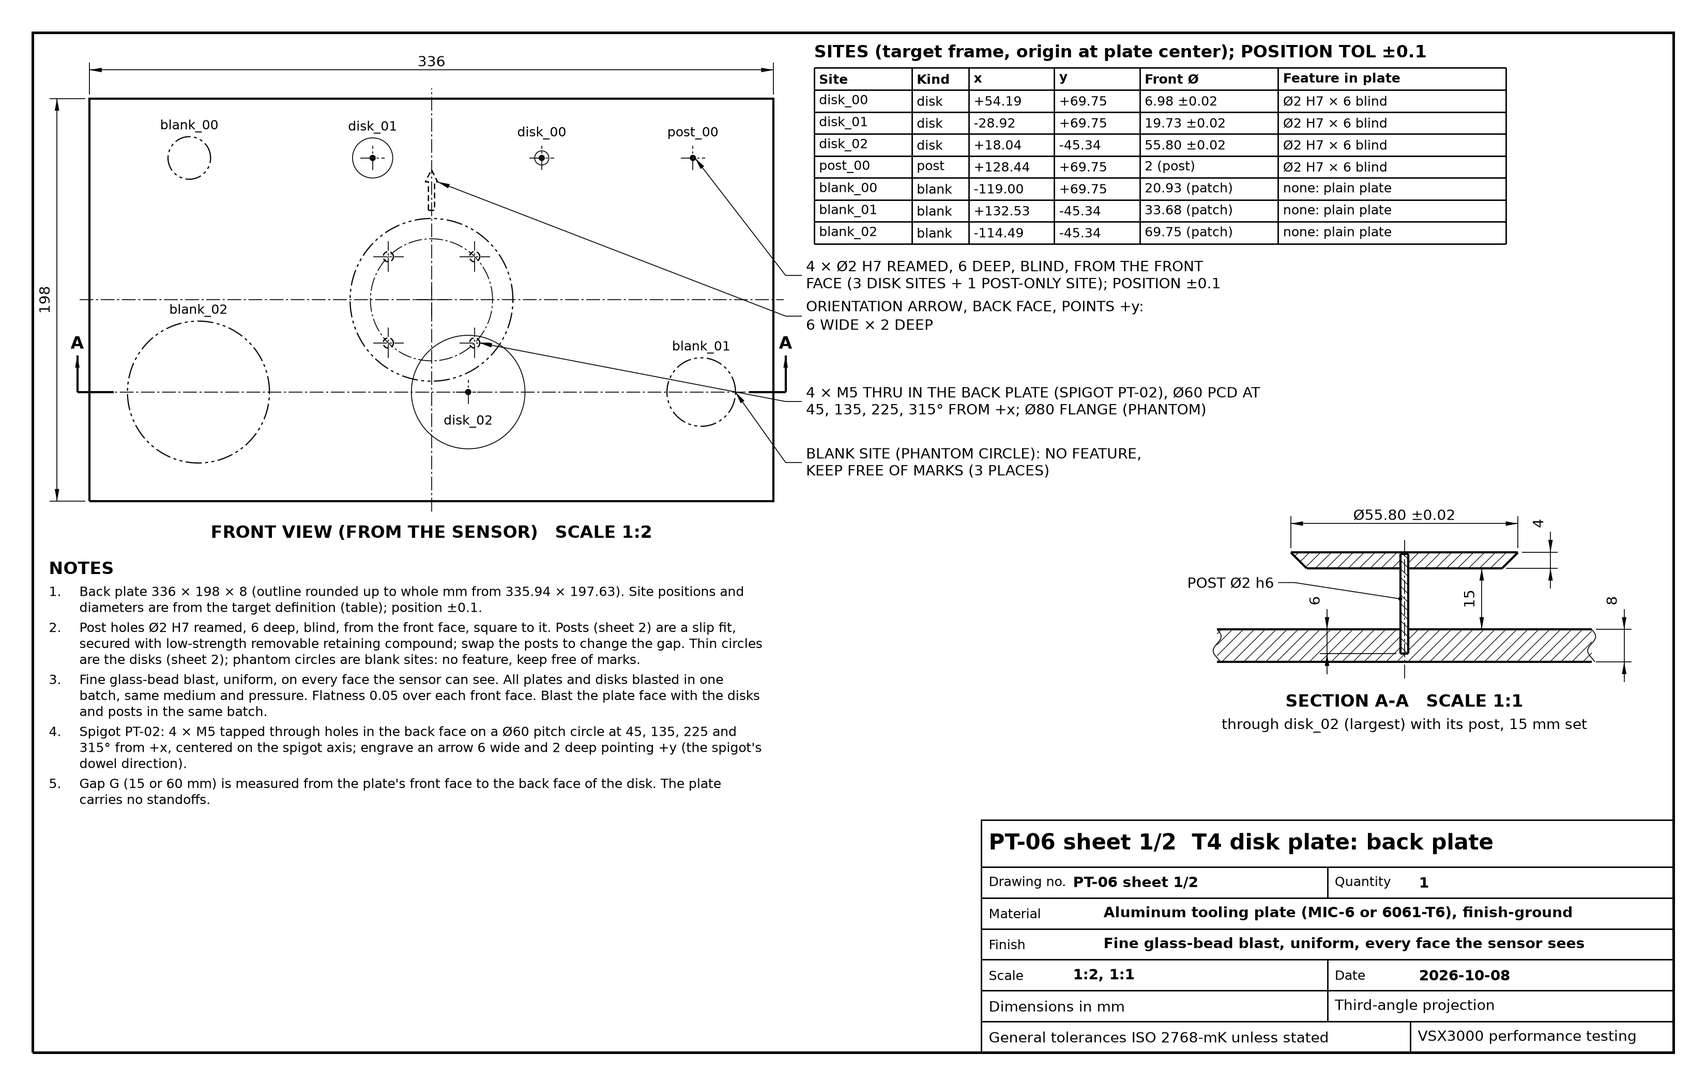
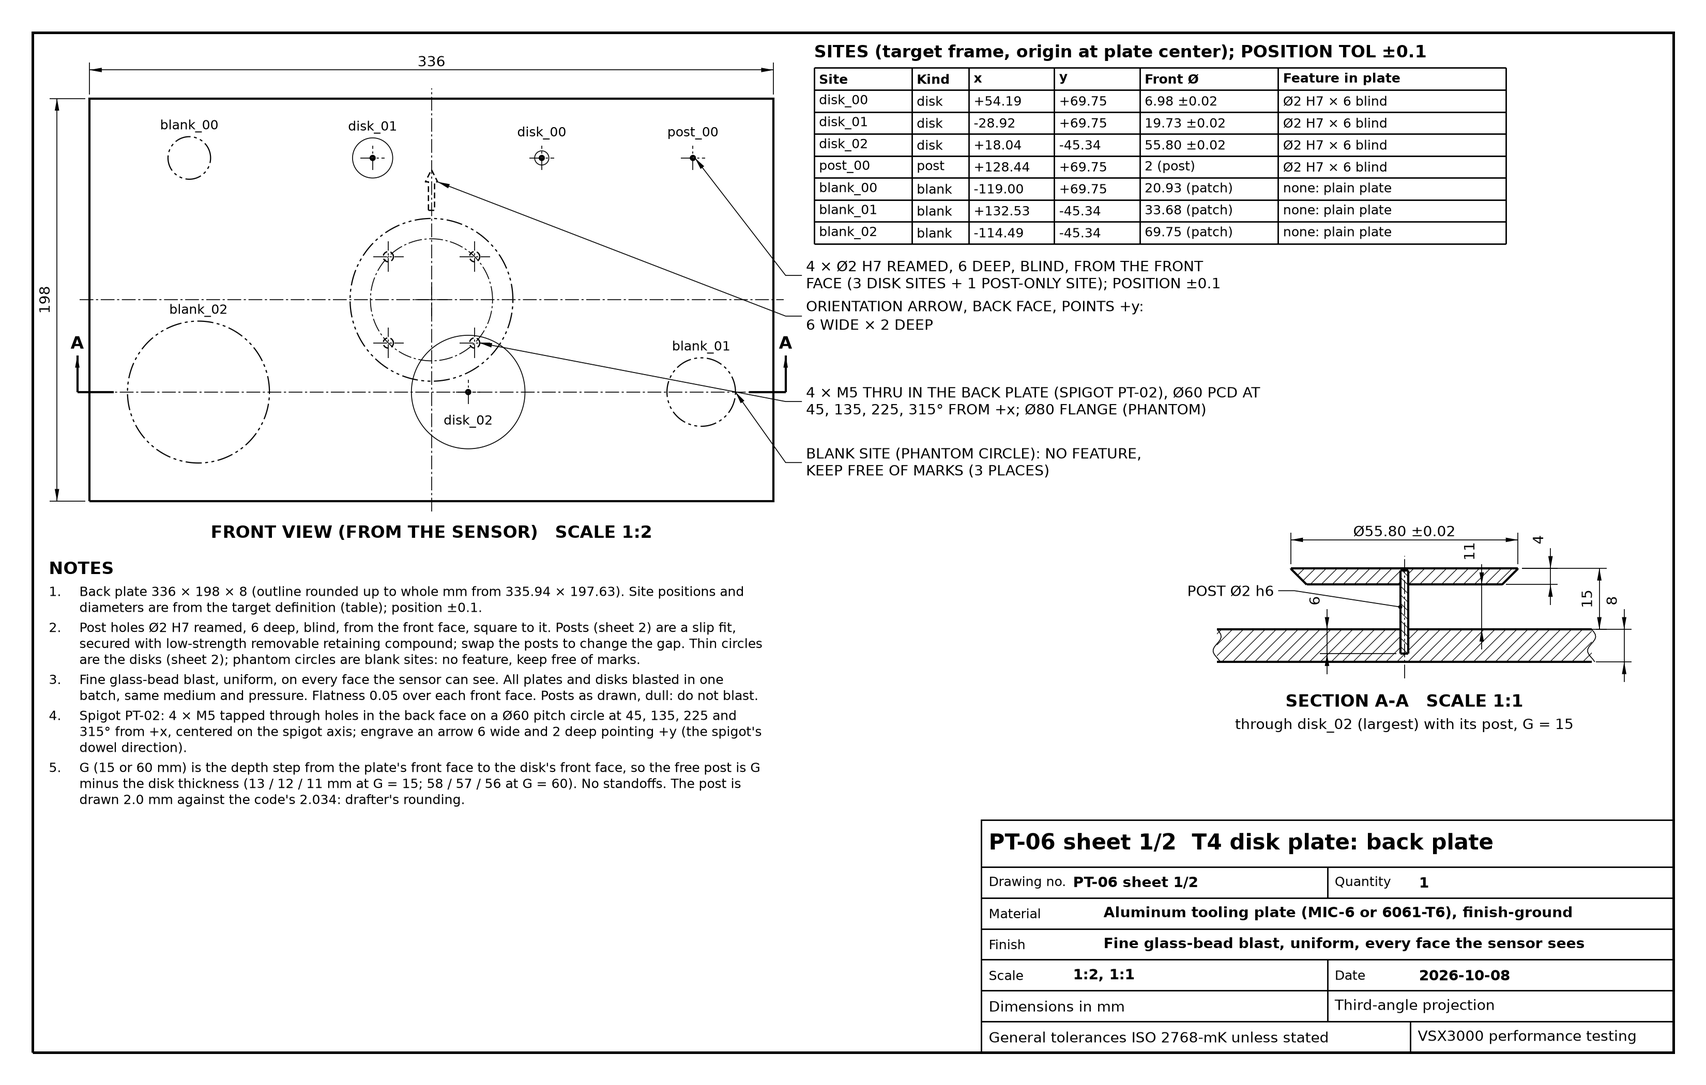
Shop drawings PT-01 to PT-07 released; Appendix F (shop drawings) in the procedure; gap convention G face to face
Drawings regenerated by docs/procedures/drawings/make_all.py: adapter, spigot, standoff set
(bodies G minus the front part's thickness), T3a, T3b, T4 (two sheets), T5 with its edge bracket;
site positions read from the code's target definitions. Appendix F lists the sheets, the points
for the shop to confirm and embeds each drawing. Gate passes (baseline 2026-10-08_07).

Claude-Session: https://claude.ai/code/session_01ERsPi9xhFu3U1nLCkBXPjN

Changed region(s): [[0.0312, 0.619, 0.437, 0.7429], [0.6867, 0.4643, 0.9052, 0.5571], [0.7179, 0.65, 0.9052, 0.681]]

diff --git a/docs/procedures/drawings/part_06_t4_disk_plate.py b/docs/procedures/drawings/part_06_t4_disk_plate.py
@@ -64,12 +64,18 @@ def disk_geometry(f) -> dict[str, float]:
     assert back_d > POST_DIAMETER_MM + 1.0, f"back face of {f.site_id} too small for the post"
     bore = t - DISK_BORE_FLOOR_MM
     return {"t": t, "run": run, "back_d": back_d, "bore": bore,
-            **{f"post_{g:g}": g + POST_HOLE_DEPTH_MM + bore for g in GAPS}}
+            **{f"free_{g:g}": g - t for g in GAPS},  # free post length: plate front face to the disk's back face
+            **{f"post_{g:g}": g - t + POST_HOLE_DEPTH_MM + bore for g in GAPS}}
+
+
+def post_only_free(gap: float) -> float:
+    """Free length of the post-only post: gap minus the SMALL disk's thickness (the longest free post of the plate)."""
+    return gap - DISK_THICKNESS_MM["small"]
 
 
 def post_only_length(gap: float) -> float:
-    """Post-only post: from the hole bottom to the plane of a disk's back face (gap + hole depth)."""
-    return gap + POST_HOLE_DEPTH_MM
+    """Post-only post: free length plus the seat in the plate; its tip lies where the small disk's back face would be."""
+    return post_only_free(gap) + POST_HOLE_DEPTH_MM
 
 
 # ---------------------------------------------------------------------------
@@ -113,6 +119,11 @@ def site_rows() -> list[list[str]]:
             feat = "none: plain plate"
         rows.append([f.site_id, f.kind, f"{f.x_mm:+.2f}", f"{f.y_mm:+.2f}", dia, feat])
     return rows
+
+
+def free_text(gap: float) -> str:
+    """Free post lengths of the small / medium / large disk at ``gap`` as text, e.g. '13 / 12 / 11'."""
+    return " / ".join(c.fmt(gap - DISK_THICKNESS_MM[n]) for n in LEVEL_NAMES)
 
 
 def build_sheet1(out_dir: str) -> list[str]:
@@ -173,9 +184,9 @@ def build_sheet1(out_dir: str) -> list[str]:
 
     # ---- section A-A through the largest disk (cropped) ----
     sec = View(sh, (SEC_ORIGIN_X, SEC_ORIGIN_Y), SEC_SCALE)
-    g = SHOWN_GAP_MM
     G = disk_geometry(LARGEST)
     t, R, run = G["t"], LARGEST.diameter_mm / 2, G["run"]
+    g = SHOWN_GAP_MM - t  # free post length: plate front face to the disk's back face (G minus the disk thickness)
     u_l, u_r = -SEC_HALF, SEC_HALF  # relative to the disk axis (section u = x - disk x)
     hole_r = POST_DIAMETER_MM / 2
     # plate with the blind hole in its front face
@@ -196,13 +207,14 @@ def build_sheet1(out_dir: str) -> list[str]:
     sec.dim_h(-R, R, top, top, 7.0, f"Ø{c.fmt2(LARGEST.diameter_mm)} ±{c.fmt(DISK_DIAMETER_TOL_MM)}")
     sec.dim_v(R, R - run, top, g, 8.0, c.fmt(t))
     sec.dim_v(hole_r, hole_r, 0.0, g, 18.0, c.fmt(g))
+    sec.dim_v(R, R, 0.0, top, 20.0, c.fmt(SHOWN_GAP_MM), base_u=R)  # G: plate front face to the disk's front face
     sec.dim_v(u_r, u_r, 0.0, -PLATE_T, 8.0, c.fmt(PLATE_T))
     sec.dim_v(-hole_r, -hole_r, -POST_HOLE_DEPTH_MM, 0.0, -18.0, c.fmt(POST_HOLE_DEPTH_MM))
     sec.leader((-hole_r, g / 2), f"POST \u00d8{c.fmt(POST_DIAMETER_MM)} {POST_ROD_TOL}", -26.0, 4.0, terminator="dot")
     sh.text(SEC_ORIGIN_X, SEC_ORIGIN_Y - PLATE_T * SEC_SCALE - 11.0,
             "SECTION A-A   SCALE 1:1", size=d.FONT_LABEL, ha="center", weight="bold")
     sh.text(SEC_ORIGIN_X, SEC_ORIGIN_Y - PLATE_T * SEC_SCALE - 16.5,
-            f"through disk_02 (largest) with its post, {c.fmt(g)} mm set", size=d.FONT_NOTE, ha="center")
+            f"through disk_02 (largest) with its post, G = {c.fmt(SHOWN_GAP_MM)}", size=d.FONT_NOTE, ha="center")
 
     notes = [
         f"Back plate {c.fmt(PLATE_W)} × {c.fmt(PLATE_H)} × {c.fmt(PLATE_T)} (outline rounded up to whole mm from "
@@ -212,10 +224,11 @@ def build_sheet1(out_dir: str) -> list[str]:
         f"front face, square to it. Posts (sheet 2) are a slip fit, secured with low-strength removable retaining compound; "
         f"swap the posts to change the gap. Thin circles are the disks (sheet 2); phantom circles are blank sites: no "
         f"feature, keep free of marks.",
-        c.NOTE_FINISH + " " + c.NOTE_FLATNESS + " Blast the plate face with the disks and posts in the same batch.",
+        c.NOTE_FINISH + " " + c.NOTE_FLATNESS + " Posts as drawn, dull: do not blast.",
         c.NOTE_SPIGOT,
-        f"Gap G ({c.fmt(GAP_SMALL_MM)} or {c.fmt(GAP_LARGE_MM)} mm) is measured from the plate's front face to the back "
-        f"face of the disk. The plate carries no standoffs.",
+        f"G ({c.fmt(GAP_SMALL_MM)} or {c.fmt(GAP_LARGE_MM)} mm) is the depth step from the plate's front face to the disk's front face, so "
+        f"the free post is G minus the disk thickness ({free_text(GAP_SMALL_MM)} mm at G = {c.fmt(GAP_SMALL_MM)}; {free_text(GAP_LARGE_MM)} at "
+        f"G = {c.fmt(GAP_LARGE_MM)}). No standoffs. The post is drawn 2.0 mm against the code's {POSTS[0].diameter_mm:.3f}: drafter's rounding.",
     ]
     bottom = sh.notes_block(NOTES_X, NOTES_TOP, NOTES_W, notes, size=c.NOTE_SIZE)
     assert bottom > d.FRAME_BOTTOM, f"notes overflow the sheet (bottom {bottom:.1f})"
@@ -245,14 +258,15 @@ MEDIUM_DISK_R_MM = 12.0  # disks smaller than this take their back diameter text
 SMALL_DISK_R_MM = 5.0  # disks smaller than this take their diameter text outside the dimension
 S2_BORE_LEADER_DROP = 18.0  # the bore leader's elbow lies this far below the disk's back face (paper)
 S2_SMALL_SIDE_DIM = 36.0  # offset of the gap and seat dimension lines of the small disk (paper)
+S2_G_DIM_STEP = 11.0  # the G dimension line lies this far outside the free-length line (paper)
 S2_DIM_ROW = 8.0  # offset of dimension lines from the feature (paper)
 
 
 def draw_assembly(sh: Sheet, f, cx: float) -> None:
     """Section of one disk with its post (15 mm set), the plate front face and the post hole in phantom."""
     G = disk_geometry(f)
-    g = SHOWN_GAP_MM
     t, R, run, bore = G["t"], f.diameter_mm / 2, G["run"], G["bore"]
+    g = SHOWN_GAP_MM - t  # free post length: plate front face to the disk's back face
     rp = POST_DIAMETER_MM / 2
     v = View(sh, (cx, S2_Z0_Y), S2_SCALE)
     top = g + t
@@ -276,6 +290,7 @@ def draw_assembly(sh: Sheet, f, cx: float) -> None:
     side_off = S2_SMALL_SIDE_DIM if small else S2_DIM_ROW + 2.0  # the small disk's diameter text sits left of this line
     v.dim_v(rp, rp, 0.0, g, side_off, c.fmt(g), base_u=R - run + 1.0)
     v.dim_v(rp, rp, -POST_HOLE_DEPTH_MM, 0.0, side_off, c.fmt(POST_HOLE_DEPTH_MM), base_u=R - run + 1.0)
+    v.dim_v(rp, rp, 0.0, top, side_off + S2_G_DIM_STEP, c.fmt(SHOWN_GAP_MM), base_u=R - run + 1.0)  # G
     v.leader((-rp, g + bore / 2), f"BORE \u00d8{c.fmt(POST_DIAMETER_MM)} {POST_HOLE_TOL}\n\u00d7 {c.fmt(bore)} DEEP", -20.0,
              -(S2_BORE_LEADER_DROP + bore), terminator="dot")
     low = S2_Z0_Y - POST_HOLE_DEPTH_MM * S2_SCALE
@@ -287,7 +302,7 @@ def draw_assembly(sh: Sheet, f, cx: float) -> None:
 
 def draw_post_only(sh: Sheet) -> None:
     """The post-only post in place, G = 15 (the 60 mm post is the same part, longer)."""
-    g = SHOWN_GAP_MM
+    g = post_only_free(SHOWN_GAP_MM)  # free length: tip at the plane of the small disk's back face
     rp = POST_DIAMETER_MM / 2
     v = View(sh, S2_POST_ONLY, S2_SCALE)
     half = 8.0
@@ -298,28 +313,29 @@ def draw_post_only(sh: Sheet) -> None:
     v.center_v(-POST_HOLE_DEPTH_MM - 3.0, g + 3.0, 0.0)
     v.dim_v(rp, rp, 0.0, g, 8.0, c.fmt(g), base_u=rp)
     v.dim_v(rp, rp, -POST_HOLE_DEPTH_MM, 0.0, 8.0, c.fmt(POST_HOLE_DEPTH_MM), base_u=rp)
-    L = post_only_length(g)
+    L = g + POST_HOLE_DEPTH_MM  # post-only length: free length + seat
     v.dim_v(rp, rp, -POST_HOLE_DEPTH_MM, g, 18.0, f"L = {c.fmt(L)}", base_u=rp)
     x0 = S2_POST_ONLY[0] + 24.0
     y0 = S2_POST_ONLY[1] + g * S2_SCALE
     sh.text(x0, y0 - 1.0, f"POST-ONLY POST (site {POSTS[0].site_id})", size=d.FONT_NOTE, weight="bold")
     sh.text(x0, y0 - 5.8, f"\u00d8{c.fmt(POST_DIAMETER_MM)} {POST_ROD_TOL} stainless drill rod", size=d.FONT_NOTE)
-    sh.text(x0, y0 - 10.6, f"L = G + {c.fmt(POST_HOLE_DEPTH_MM)}: {c.fmt(post_only_length(GAP_SMALL_MM))} (G {c.fmt(GAP_SMALL_MM)}),",
+    sh.text(x0, y0 - 10.6, f"free = G \u2212 {c.fmt(DISK_THICKNESS_MM['small'])}: {c.fmt(post_only_free(GAP_SMALL_MM))} / {c.fmt(post_only_free(GAP_LARGE_MM))}",
             size=d.FONT_NOTE)
-    sh.text(x0, y0 - 15.4, f"{c.fmt(post_only_length(GAP_LARGE_MM))} (G {c.fmt(GAP_LARGE_MM)}), same part", size=d.FONT_NOTE)
+    sh.text(x0, y0 - 15.4, f"L = {c.fmt(post_only_length(GAP_SMALL_MM))} (G {c.fmt(GAP_SMALL_MM)}), {c.fmt(post_only_length(GAP_LARGE_MM))} (G {c.fmt(GAP_LARGE_MM)})", size=d.FONT_NOTE)
     sh.text(S2_POST_ONLY[0], S2_POST_ONLY[1] - POST_HOLE_DEPTH_MM * S2_SCALE - S2_LABEL_DY,
             "POST-ONLY SITE, 15 mm SET   SCALE 2:1", size=d.FONT_LABEL, ha="center", weight="bold")
 
 
 def parts_rows() -> list[list[str]]:
-    rows = [["Part", "G", "Front \u00d8 \u00b10.02", "t", "Back \u00d8", "Bore", "Post L"]]
+    rows = [["Part", "G", "Front \u00d8 \u00b10.02", "t", "Back \u00d8", "Bore", "Free", "Post L"]]
     for f in sorted(DISKS, key=lambda f: -f.level_index):
         G = disk_geometry(f)
         for gap in GAPS:
             rows.append([f"{f.site_id} + post", c.fmt(gap), c.fmt2(f.diameter_mm), c.fmt(G["t"]), c.fmt2(G["back_d"]),
-                         c.fmt(G["bore"]), c.fmt(G[f"post_{gap:g}"])])
+                         c.fmt(G["bore"]), c.fmt(G[f"free_{gap:g}"]), c.fmt(G[f"post_{gap:g}"])])
     for gap in GAPS:
-        rows.append([f"{POSTS[0].site_id} (post only)", c.fmt(gap), "-", "-", "-", "-", c.fmt(post_only_length(gap))])
+        rows.append([f"{POSTS[0].site_id} (post only)", c.fmt(gap), "-", "-", "-", "-", c.fmt(post_only_free(gap)),
+                     c.fmt(post_only_length(gap))])
     return rows
 
 
@@ -329,7 +345,7 @@ def build_sheet2(out_dir: str) -> list[str]:
     for f in DISKS:
         draw_assembly(sh, f, S2_COLUMNS_X[f.level_index])
     draw_post_only(sh)
-    sh.table(S2_TABLE[0], S2_TABLE[1], [32.0, 10.0, 28.0, 10.0, 18.0, 13.0, 17.0], parts_rows(),
+    sh.table(S2_TABLE[0], S2_TABLE[1], [32.0, 10.0, 28.0, 9.0, 17.0, 12.0, 12.0, 15.0], parts_rows(),
              "PARTS: 6 DISK + POST ASSEMBLIES, 2 POST-ONLY POSTS", size=d.FONT_MIN)
     c.draw_edge_detail(sh, S2_DET_ORIGIN, S2_DET_SCALE, DISK_THICKNESS_MM["large"], material_side=-1,
                        title="DETAIL A   SCALE 4:1", subtitle="disk edge, 4 mm disk shown; 2 and 3 mm disks the same")
@@ -342,16 +358,21 @@ def build_sheet2(out_dir: str) -> list[str]:
         f"\u00d8{c.fmt(POST_DIAMETER_MM)} {POST_HOLE_TOL} (depth = t \u2212 {c.fmt(DISK_BORE_FLOOR_MM)}, from the back) with structural adhesive; keep the "
         f"adhesive off the front face. The free end seats in the plate's blind hole (sheet 1), slip fit, secured with low-strength "
         f"removable retaining compound.",
-        f"Post length L = G + {c.fmt(POST_HOLE_DEPTH_MM)} (seat in the plate) + bore depth. The post-only post has no disk: L = G + "
-        f"{c.fmt(POST_HOLE_DEPTH_MM)}, its free end at the plane of a disk's back face.",
-        f"G ({c.fmt(GAP_SMALL_MM)} or {c.fmt(GAP_LARGE_MM)} mm) is the distance from the plate's front face to the back face of the disk. "
-        f"Both gap sets are delivered; the plate (sheet 1) is shared.",
-        c.NOTE_FINISH + " Blast the front faces of the disks with the plate.",
+        f"Post length L = free length + {c.fmt(POST_HOLE_DEPTH_MM)} (seat in the plate) + bore depth = G + {c.fmt(POST_HOLE_DEPTH_MM - DISK_BORE_FLOOR_MM)} "
+        f"for every disk ({c.fmt(GAPS[0] + POST_HOLE_DEPTH_MM - DISK_BORE_FLOOR_MM)} at G = {c.fmt(GAPS[0])}, {c.fmt(GAPS[1] + POST_HOLE_DEPTH_MM - DISK_BORE_FLOOR_MM)} at "
+        f"G = {c.fmt(GAPS[1])}), because bore = t \u2212 {c.fmt(DISK_BORE_FLOOR_MM)}. The post-only post has no disk: free length G \u2212 "
+        f"{c.fmt(DISK_THICKNESS_MM['small'])} (the small disk's thickness; the longest free post), L = free + {c.fmt(POST_HOLE_DEPTH_MM)}; its tip lies "
+        f"where the small disk's back face would be.",
+        f"G ({c.fmt(GAP_SMALL_MM)} or {c.fmt(GAP_LARGE_MM)} mm) is the depth step from the plate's front face to the disk's front face; the free post "
+        f"is G minus the disk thickness ({free_text(GAP_SMALL_MM)} mm at G = {c.fmt(GAP_SMALL_MM)}; {free_text(GAP_LARGE_MM)} at G = {c.fmt(GAP_LARGE_MM)}). "
+        f"Both sets are delivered; the plate (sheet 1) is shared.",
+        c.NOTE_FINISH + " Blast the front faces of the disks with the plate. Posts as drawn, dull: do not blast. The post is drawn 2.0 mm "
+        f"against the code's {POSTS[0].diameter_mm:.3f}: drafter's rounding.",
     ]
     bottom = sh.notes_block(NOTES_X, S2_NOTES_TOP, S2_NOTES_W, notes, size=c.NOTE_SIZE)
     assert bottom > d.FRAME_BOTTOM, f"notes overflow the sheet (bottom {bottom:.1f})"
     sh.title_block(TitleInfo("PT-06 sheet 2/2", "T4 disks and posts", "6 disks + 8 posts",
-                             "Disks 6061-T6 turned; posts stainless drill rod", "Disk front faces fine glass-bead blast",
+                             "Disks 6061-T6 turned; posts stainless drill rod", "Disk fronts glass-bead blast; posts dull, as drawn",
                              "2:1, 4:1"))
     path = os.path.join(out_dir, "PT-06_T4_disk_plate_sheet2.png")
     issues = sh.save(path)
@@ -370,7 +391,7 @@ def print_checks() -> None:
     for f in DISKS:
         G = disk_geometry(f)
         print(f"PT-06 {f.site_id}: front D {f.diameter_mm:.3f}, t {G['t']:g}, back D {G['back_d']:.3f}, bore {G['bore']:g}, "
-              f"post lengths {G['post_15']:g} / {G['post_60']:g}")
+              f"free {G['free_15']:g} / {G['free_60']:g}, post lengths {G['post_15']:g} / {G['post_60']:g}")
     for g in GAPS:
         print(f"PT-06 post-only length at gap {g:g}: {post_only_length(g):g}")
 

diff --git a/docs/procedures/performance_test_procedure.template.md b/docs/procedures/performance_test_procedure.template.md
@@ -778,4 +778,59 @@ Machine shop: the target adapter, the four spigots, the standoffs, the four feat
 
 ## Appendix F. Shop drawings
 
-The drawings PT-01 to PT-07 are generated by scripts in `docs/procedures/drawings/`; this appendix is completed when the drawings are released.
+The eight sheets below are the ones to build from. Each shows the part in plan and in section, with every feature dimensioned and toleranced, the material, the finish, the quantity and the points the shop must confirm. The flange interface of PT-01 follows ISO 9409-1-50-4-M6 (ISO 9409-1:1996, table 1: 50 mm pitch circle, 31.5 mm H7 centering recess, four M6, one 6 mm H7 pin hole on the pitch circle at +Xm); confirm it against the chosen robot's flange drawing before machining. The board adapter SC1-05 and the rigid sensor mount are built from the stage-1 drawings and are not repeated here; the run-out fixture and the drift-run stand need no drawing (section 1e).
+
+The drawings are generated by scripts in `docs/procedures/drawings/` (regenerate all of them with `python3 docs/procedures/drawings/make_all.py`); the PNG files there print at full size and are the copies to send to the shop. Feature positions and sizes on PT-04 to PT-07 are read from the code's target definitions, so a change of the feature ladder regenerates the drawings; the spigot mating pattern and the standoff studs are shared between the sheets through one module, so the plates and the spigot cannot disagree.
+
+| Drawing | Part | Quantity | File |
+|---|---|---|---|
+| PT-01 | Target adapter, ISO 9409-1-50-4-M6 flange side, spigot bore and cross hole | 1 | `PT-01_target_adapter.png` |
+| PT-02 | Target spigot, with the mating pattern of every back plate | 4 | `PT-02_target_spigot.png` |
+| PT-03 | Standoff set: bodies of 5, 9, 50 and 54 mm for the 15 and 60 mm gaps | 32 | `PT-03_standoff_set.png` |
+| PT-04 | T3a raised square and back plate | 1 | `PT-04_T3a_raised_square.png` |
+| PT-05 | T3b square window, front and back plates | 1 | `PT-05_T3b_square_window.png` |
+| PT-06 sheet 1 | T4 disk plate: back plate | 1 | `PT-06_T4_disk_plate_sheet1.png` |
+| PT-06 sheet 2 | T4 disks and posts | 6 disks, 8 posts | `PT-06_T4_disk_plate_sheet2.png` |
+| PT-07 | T5 cutout plate, back plate and edge bracket | 1 | `PT-07_T5_cutout_plate.png` |
+
+Points for the machine shop to confirm, gathered from the sheets:
+
+- PT-01: the four Ø11 counterbores on the 50 mm pitch circle notch the Ø40 bore by 0.5 mm over 6.5 mm (drawn as is); the drill point of the dowel hole stops 1.2 mm from the cross hole; the keyway depth of 4.5 mm (the dowel's 4 mm protrusion plus 0.5 mm clearance); the ball-lock pin's grip length; the M5 hold-down holes are optional.
+- PT-02: the flange thickness of 8 mm with a 4 mm counterbore, the dowel 6 mm from the flange face, the finish (passivated, matte, the ground body uncoated), and the material grade.
+- PT-03: the gap convention (the body is G minus the front part's thickness, 6 mm for the plates and 10 mm for the raised square, so that the step the sensor sees is G), the groove that marks the 5.5 mm front stud, the thread class 6g, the run-out, and the split of the spares.
+- PT-04 to PT-07: the land of 0.1 +0.1/−0.1 mm at every knife edge (never more than 0.2 mm, measured and reported for every edge), the blind holes of the 10 mm raised square (tap drill 8.0 mm deep to the tip, floor 2.0 mm), the through-tapped M5 holes of the 6 mm front plates with nothing proud of the front face, the slip fit of the disk posts in their reamed holes (free length G minus the disk thickness), and the bead-blast batch (every plate, disk and post together, one medium, one pressure, before assembly).
+- PT-07: the edge bracket's screws into the through-tapped front plate end 1.5 mm below the front face; the 8 mm bracket lies 1 mm clear of the back plate at the 15 mm gap; the back plate is removable for the open-background captures and must go back on its standoffs without play.
+
+The drafter chose, and the engineer may change before ordering: plate thicknesses (6 mm front plates, 8 mm back plates, 10 mm raised square), the disk thicknesses (2, 3 and 4 mm), the standoff positions (corners at 15 mm or 12 mm inset; the 64 mm square behind the raised square), the adapter in aluminum, and the T5 edge bracket (40 mm wide, 8 mm thick, 100 mm extension).
+
+![PT-01](drawings/PT-01_target_adapter.png)
+
+Drawing PT-01. Target adapter.
+
+![PT-02](drawings/PT-02_target_spigot.png)
+
+Drawing PT-02. Target spigot.
+
+![PT-03](drawings/PT-03_standoff_set.png)
+
+Drawing PT-03. Standoff set.
+
+![PT-04](drawings/PT-04_T3a_raised_square.png)
+
+Drawing PT-04. T3a raised square and back plate.
+
+![PT-05](drawings/PT-05_T3b_square_window.png)
+
+Drawing PT-05. T3b square window, front and back plates.
+
+![PT-06 sheet 1](drawings/PT-06_T4_disk_plate_sheet1.png)
+
+Drawing PT-06, sheet 1. T4 disk plate, back plate.
+
+![PT-06 sheet 2](drawings/PT-06_T4_disk_plate_sheet2.png)
+
+Drawing PT-06, sheet 2. T4 disks and posts.
+
+![PT-07](drawings/PT-07_T5_cutout_plate.png)
+
+Drawing PT-07. T5 cutout plate, back plate and edge bracket.

diff --git a/docs/procedures/drawings/README.md b/docs/procedures/drawings/README.md
@@ -68,10 +68,9 @@ plate drawings) and stop with an error if the two disagree.
 
 PT-04 to PT-07 (target plates):
 
-- Gap G (15 or 60 mm) is taken as the standoff length and the post free length, so the front face of a front plate or disk stands G + its thickness (6, or 10 for the T3a square, or the disk thickness) above the back plate. The code's `gap_mm` is measured from the front face to the back plate: if the code's gap must hold exactly, the standoffs become G - 6 (and G - 10 for T3a), or the planner's gap values become G + thickness.
-- The brief's 6 mm blind M5 holes cannot be made in a 6 mm plate: front plates (PT-05, PT-07) have M5 through-tapped holes with the 5.5 mm front stud ending 0.5 mm below the front face (the plate is bead-blasted before assembly, so the open holes stay in the blasted face); the T3a square is 10 mm thick with blind M5 holes, thread 6 deep, drilled 7.5 deep to the tip of a 118 degree point (full diameter to 6.24 mm, so the thread leaves only 0.24 mm of full-diameter drill below it; floor under the tip 2.5 mm).
-- PT-04: the standoff holes of the back plate lie at r = 42.4 mm, so the rim of the 80 mm spigot flange (r = 40) just touches the M5 thread (r = 2.5): the 8 mm back studs must not stand proud of the back face.
-- PT-06: disk post bores are 2 H7, depth = disk thickness - 0.5 mm (1.5 / 2.5 / 3.5), so the posts are gap + 6 + bore long (22.5 to 69.5 mm); the post-only post is gap + 6 long. The posts are not blasted unless the engineer asks for it.
+- G (15 or 60 mm) is the depth step between the front face of the front part and the front face of the back plate (the specification's meaning). Standoff body = G minus the front part's thickness: 9 / 54 for 6 mm parts, 5 / 50 for the 10 mm T3a square (read from PT-03's `STANDOFF_BODY_LENGTHS_MM`). On T5 the 8 mm bracket then leaves only 1 mm to the back plate at G = 15.
+- The brief's 6 mm blind M5 holes cannot be made in a 6 mm plate: front plates (PT-05, PT-07) have M5 through-tapped holes with the 5.5 mm front stud ending 0.5 mm below the front face (the plate is bead-blasted before assembly, so the open holes stay in the blasted face); the T3a square is 10 mm thick with blind M5 holes, thread 6 deep, drilled 8.0 deep to the tip of a 118 degree point (full diameter to 6.74 mm, 0.74 mm below the thread; floor under the tip 2.0 mm). The standoff square is 64 mm (holes at +/-32), so the thread edge clears the 80 mm flange rim by 2.75 mm.
+- PT-06: disk post bores are 2 H7, depth = disk thickness - 0.5 mm (1.5 / 2.5 / 3.5), so every disk post is G + 5.5 long (20.5 at G = 15, 65.5 at G = 60) with a free length of G minus the disk thickness (11 / 12 / 13 and 56 / 57 / 58). The post-only post has free length G - 2 (13 / 58) and is 19 / 64 long. Posts are not blasted (dull, as drawn).
 - PT-06: the post feature in the code has a diameter of 2.034 mm; the post is made from 2.0 mm rod.
 - PT-07: four standoffs (x = +156 and x = -120, y = +/-87), not six; the bracket carries three M5 x 8 DIN 7984 screws (M5 x 10 would protrude 0.5 mm), and the front face of the bracket extension is bead-blasted because the sensor can see it. The engraved orientation arrow is on the bar's back face (x = -148), not on the extension (too narrow).
 - PT-07: nearest hole (standoff or bracket screw) to a blank site is 7.1 mm; the front plate is 6 mm thick, the bracket screws have only 4.5 mm of thread engagement.
